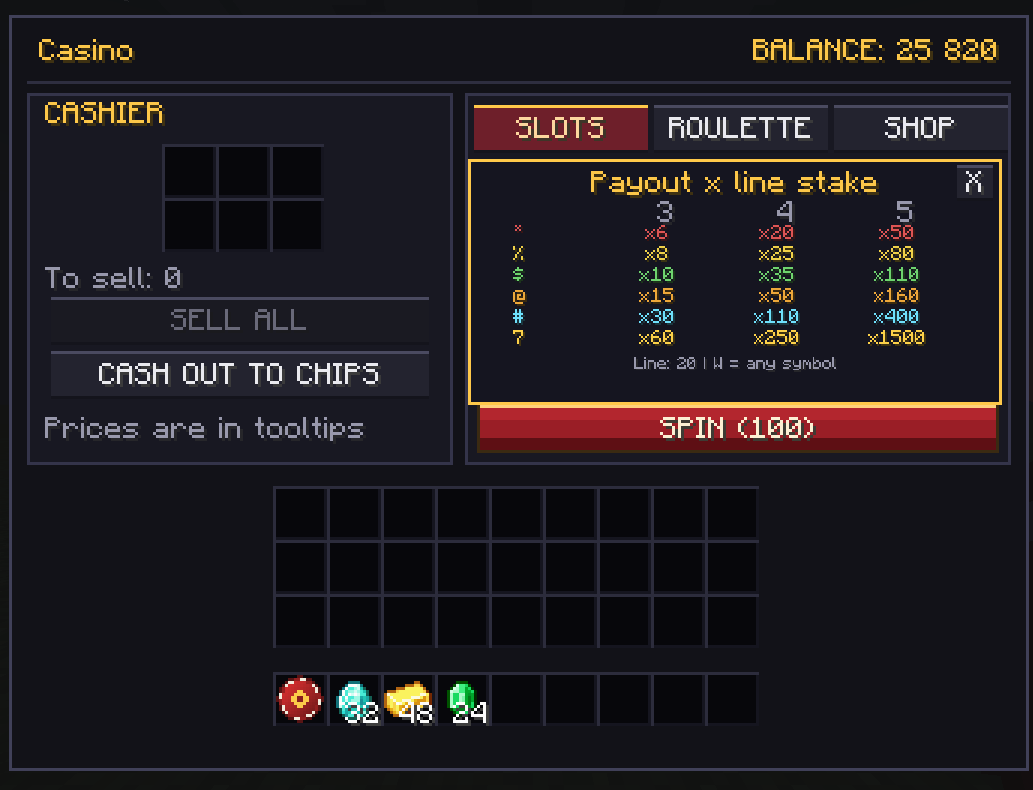
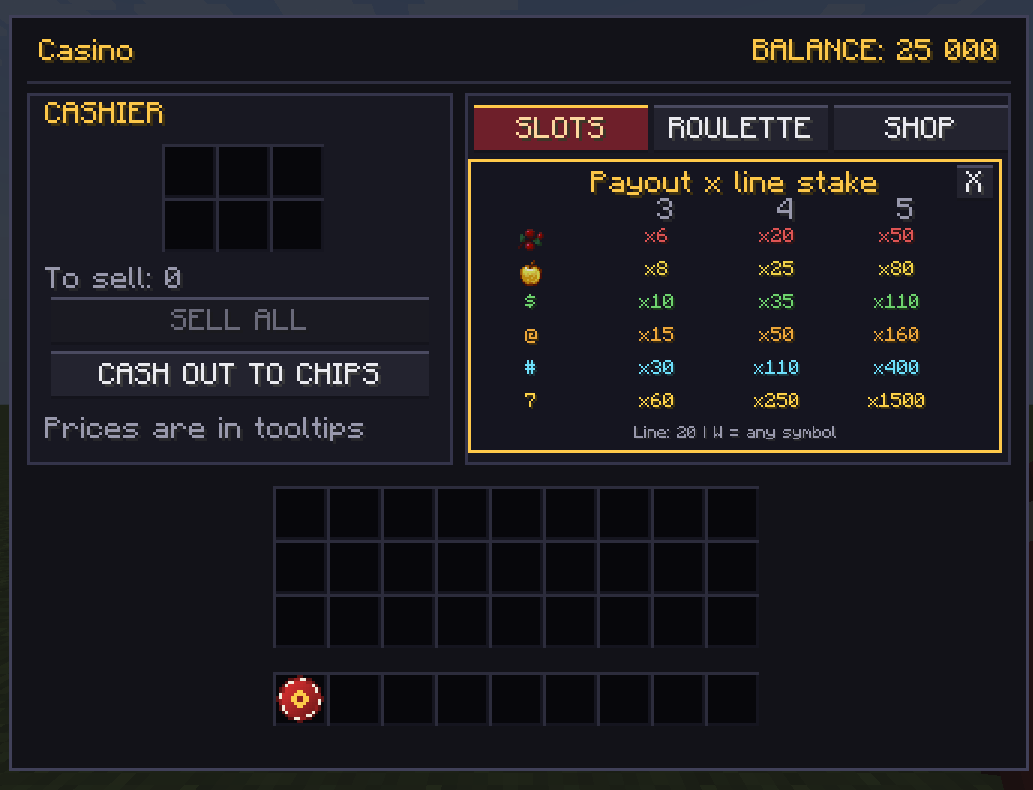
Use in-game fruit items for slot symbols and rebuild the paytable

diff --git a/src/main/java/com/casinocraft/client/CasinoScreen.java b/src/main/java/com/casinocraft/client/CasinoScreen.java
@@ -20,6 +20,7 @@ import net.minecraft.client.util.math.MatrixStack;
 import net.minecraft.entity.player.PlayerInventory;
 import net.minecraft.item.Item;
 import net.minecraft.item.ItemStack;
+import net.minecraft.item.Items;
 import net.minecraft.network.PacketByteBuf;
 import net.minecraft.registry.Registries;
 import net.minecraft.screen.slot.Slot;
@@ -320,15 +321,15 @@ public class CasinoScreen extends HandledScreen<CasinoScreenHandler> {
         boolean overlay = bigWin.active(now) && tab == bigWinTab;
         if (showPaytable) {
             drawPaytable(context, bet);
-        } else {
-            drawSlotCabinet(context);
-            drawBetPanel(context, bet);
-            if (!overlay) {
-                drawReels(context, now);
-                drawWinPanel(context, now);
-            }
-            drawCabinetLights(context, now);
+            return;
         }
+        drawSlotCabinet(context);
+        drawBetPanel(context, bet);
+        if (!overlay) {
+            drawReels(context, now);
+            drawWinPanel(context, now);
+        }
+        drawCabinetLights(context, now);
         drawSpinButton(context, now, bet);
     }
 
@@ -430,7 +431,30 @@ public class CasinoScreen extends HandledScreen<CasinoScreenHandler> {
         box(context, x + 1, y + 1, CELL_W - 2, CELL_H - 2, 0xFF101018, border);
         context.fill(x + 2, y + 2, x + CELL_W - 2, y + 3,
                 (symbol.color & 0xFFFFFF) | 0x22000000);
-        drawSlotSymbol(context, symbol, x + CELL_W / 2.0, y + 3.0, 1.3f);
+        ItemStack item = slotSymbolItem(symbol);
+        if (item.isEmpty()) {
+            drawSlotSymbol(context, symbol, x + CELL_W / 2.0, y + 3.0, 1.3f);
+        } else {
+            drawItemIcon(context, item, x + CELL_W / 2.0, y + CELL_H / 2.0, 0.75f);
+        }
+    }
+
+    /** Fruit symbols use real in-game items; the rest stay as glyphs. */
+    private static ItemStack slotSymbolItem(SlotSymbol symbol) {
+        return switch (symbol) {
+            case CHERRY -> new ItemStack(Items.SWEET_BERRIES);
+            case LEMON -> new ItemStack(Items.GOLDEN_APPLE);
+            default -> ItemStack.EMPTY;
+        };
+    }
+
+    private void drawItemIcon(DrawContext context, ItemStack stack, double centerX, double centerY, float scale) {
+        MatrixStack matrices = context.getMatrices();
+        matrices.push();
+        matrices.translate(centerX - 8.0 * scale, centerY - 8.0 * scale, 0.0);
+        matrices.scale(scale, scale, 1.0f);
+        context.drawItem(stack, 0, 0);
+        matrices.pop();
     }
 
     private void drawWinPanel(DrawContext context, long now) {
@@ -540,23 +564,28 @@ public class CasinoScreen extends HandledScreen<CasinoScreenHandler> {
     }
 
     private void drawPaytable(DrawContext context, long bet) {
-        box(context, 153, 48, 178, 82, 0xFF151520, C_GOLD);
+        box(context, 153, 48, 178, 98, 0xFF151520, C_GOLD);
         drawFittedText(context, Text.translatable("gui.casinocraft.paytable_title"), 242, 52, 150, C_GOLD);
         drawButton(context, 316, 50, 12, 12, Text.literal("X"), false, true, C_BTN);
-        context.drawTextWithShadow(textRenderer, Text.literal("3"), 216, 62, C_DIM);
-        context.drawTextWithShadow(textRenderer, Text.literal("4"), 256, 62, C_DIM);
-        context.drawTextWithShadow(textRenderer, Text.literal("5"), 296, 62, C_DIM);
+        context.drawTextWithShadow(textRenderer, Text.literal("3"), 216, 61, C_DIM);
+        context.drawTextWithShadow(textRenderer, Text.literal("4"), 256, 61, C_DIM);
+        context.drawTextWithShadow(textRenderer, Text.literal("5"), 296, 61, C_DIM);
         for (int i = 0; i < 6; i++) {
             SlotSymbol symbol = SlotSymbol.values()[i];
-            int y = 70 + i * 7;
-            drawSlotSymbol(context, symbol, 170, y, 0.65f);
+            int y = 70 + i * 11;
+            ItemStack item = slotSymbolItem(symbol);
+            if (item.isEmpty()) {
+                drawSlotSymbol(context, symbol, 174, y + 1, 0.65f);
+            } else {
+                drawItemIcon(context, item, 174, y + 5, 0.625f);
+            }
             for (int matches = 3; matches <= 5; matches++) {
                 drawFittedText(context, Text.literal("x" + symbol.multiplier(matches)),
-                        216 + (matches - 3) * 40, y, 36, symbol.color, 0.65f);
+                        216 + (matches - 3) * 40, y + 1, 36, symbol.color, 0.65f);
             }
         }
         drawFittedText(context, Text.translatable("gui.casinocraft.line_stake", Money.format(bet / SlotMachine.LINE_COUNT)),
-                242, 114, 168, C_DIM, 0.55f);
+                242, 137, 168, C_DIM, 0.55f);
     }
 
     private void drawRoulette(DrawContext context, long now, long bet) {
@@ -911,7 +940,7 @@ public class CasinoScreen extends HandledScreen<CasinoScreenHandler> {
                     bigWin.clear();
                     return true;
                 }
-                if (showPaytable && inside(px, py, 153, 48, 178, 82)) {
+                if (showPaytable && inside(px, py, 153, 48, 178, 98)) {
                     return true;
                 }
             }

diff --git a/CHANGELOG.md b/CHANGELOG.md
@@ -13,6 +13,7 @@ All notable changes to CasinoCraft.
 * The paytable is a proper modal and no longer overlaps reels, bet or hint text; big-win overlays no longer leak the underlying game text. Reels were enlarged to fill the cabinet.
 * The window title is localized now: English clients show "Casino" instead of the hard-coded Russian label.
 * The roulette strip scrolls continuously and brakes smoothly into the winning number instead of jumping one cell at a time; a short tick marks the stop.
+* Cherry and lemon are real in-game items now (sweet berries and golden apple) instead of text glyphs, and the paytable shows item icons in a taller layout that no longer covers the spin button.
 * Slot results carry all 15 cells and the originating screen ID. Requires updating both server and clients.
 * Added regression tests for Wild rules, diagonal lines, total-stake accounting, maximum payouts, result packets and reel easing.
 
